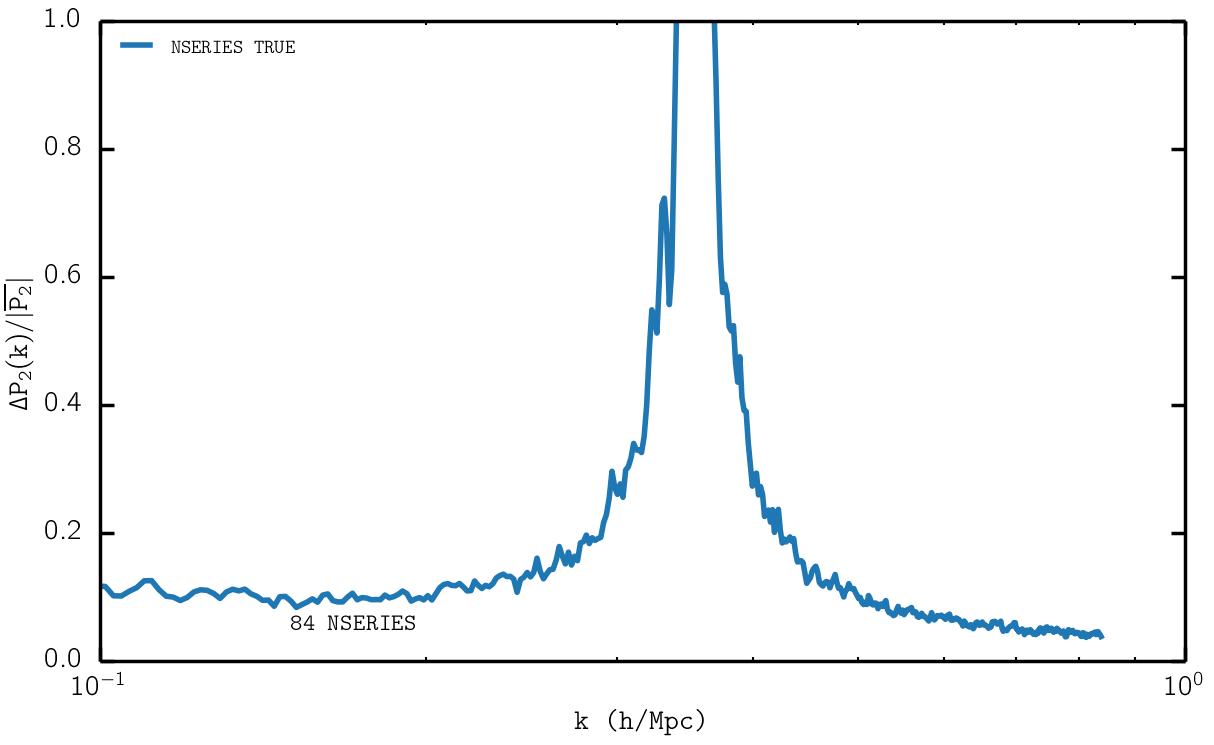
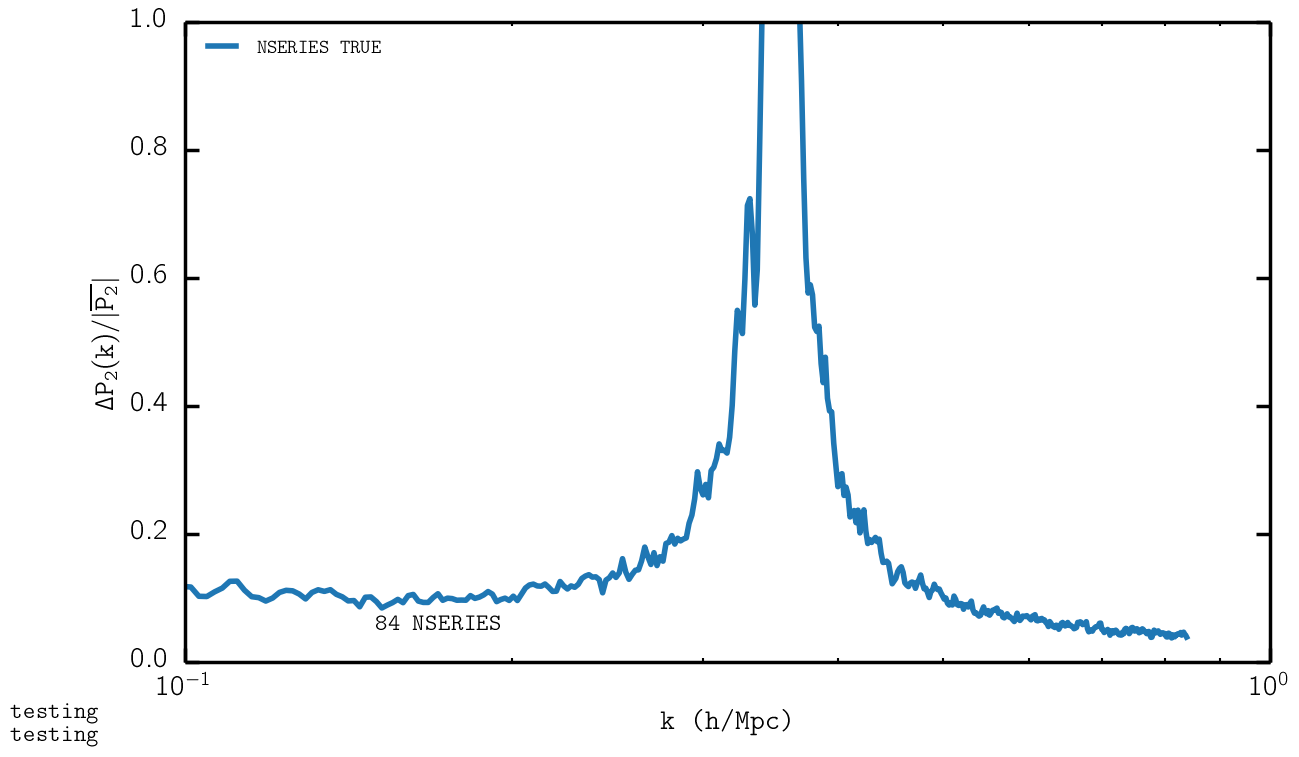
Figtext figured out"

Changed region(s): [[0.0, 0.0, 1.0, 0.9879], [0.4572, 0.9262, 0.6096, 0.9879], [0.0305, 0.0, 0.061, 0.0309]]

diff --git a/testing/plot_tophat_fibcoll_corr.py b/testing/plot_tophat_fibcoll_corr.py
@@ -632,8 +632,8 @@ if __name__=="__main__":
     #plot_delP(4, fs=1.0, rc=0.4, n_mocks=20)
 
     #plot_delP(2, n_mocks=10, Ngrid=960)#, xrange=[0.1, 1.0], yrange=[-100., 1000.])
-    plot_delP_corr_extrap_param_test(2, n_mocks=10, Ngrid=960)
-    plot_delP_corr_extrap_param_test(4, n_mocks=10, Ngrid=960)
+    #plot_delP_corr_extrap_param_test(2, n_mocks=10, Ngrid=960)
+    #plot_delP_corr_extrap_param_test(4, n_mocks=10, Ngrid=960)
     #plot_delP_corr_extrapolations(
     #        2, 
     #        n_mocks=10, 
@@ -647,8 +647,8 @@ if __name__=="__main__":
     #    plot_delP(l_i, n_mocks=10, Ngrid=720)
     #plot_delP_lp_component(2, n_mocks=10, Ngrid=720)
     #plot_delP_lp_component(4, n_mocks=10, Ngrid=720)
-    #plot_delP_lp_component(2, n_mocks=10, Ngrid=960)
-    #plot_delP_lp_component(4, n_mocks=10, Ngrid=960)
+    plot_delP_lp_component(2, n_mocks=10, Ngrid=960)
+    plot_delP_lp_component(4, n_mocks=10, Ngrid=960)
         #plot_delP_extrapolation_test(l_i, type='normal', n_mocks=10, Ngrid=720)
         #plot_delP_extrapolation_test(l_i, type='difference', n_mocks=10, Ngrid=720)
 

diff --git a/plotting/spec_plot.py b/plotting/spec_plot.py
@@ -554,6 +554,8 @@ def plot_delpoverp_comp(cat_corrs, n_mock, ell=0, **kwargs):
     except TypeError:
         n_mock_str = str(n_mock) 
 
+    plt.figtext(0, 0, "testing \n testing")
+
     fig_name = ''.join([
         'del', spec_key, 'over', spec_key, '_', 
         n_mock_str, 
@@ -569,6 +571,7 @@ def plot_delpoverp_comp(cat_corrs, n_mock, ell=0, **kwargs):
             ''.join([fig_dir, fig_name]), 
             bbox_inches="tight"
             )
+
     #plt.show()
     plt.close()
 

diff --git a/fourier_corr/test_pk_corr.py b/fourier_corr/test_pk_corr.py
@@ -142,7 +142,9 @@ def test_delPk_corr_scatter(ell, n_mocks, Ngrid=960, k_max=0.25, k_fixed=0.6, fs
     fig_file = ''.join([
         'figure/', 
         'qaplot_delP_corr_extrap_scatter.', 
-        str(n_mocks), 'mocks', 
+        str(n_mocks), 'mocks.', 
+        'kfit', str(round(k_max,2)), '.', 
+        'kfixed', str(round(k_fixed,2)),
         '.png'
         ])
     fig.savefig(fig_file, bbox_inches="tight")
